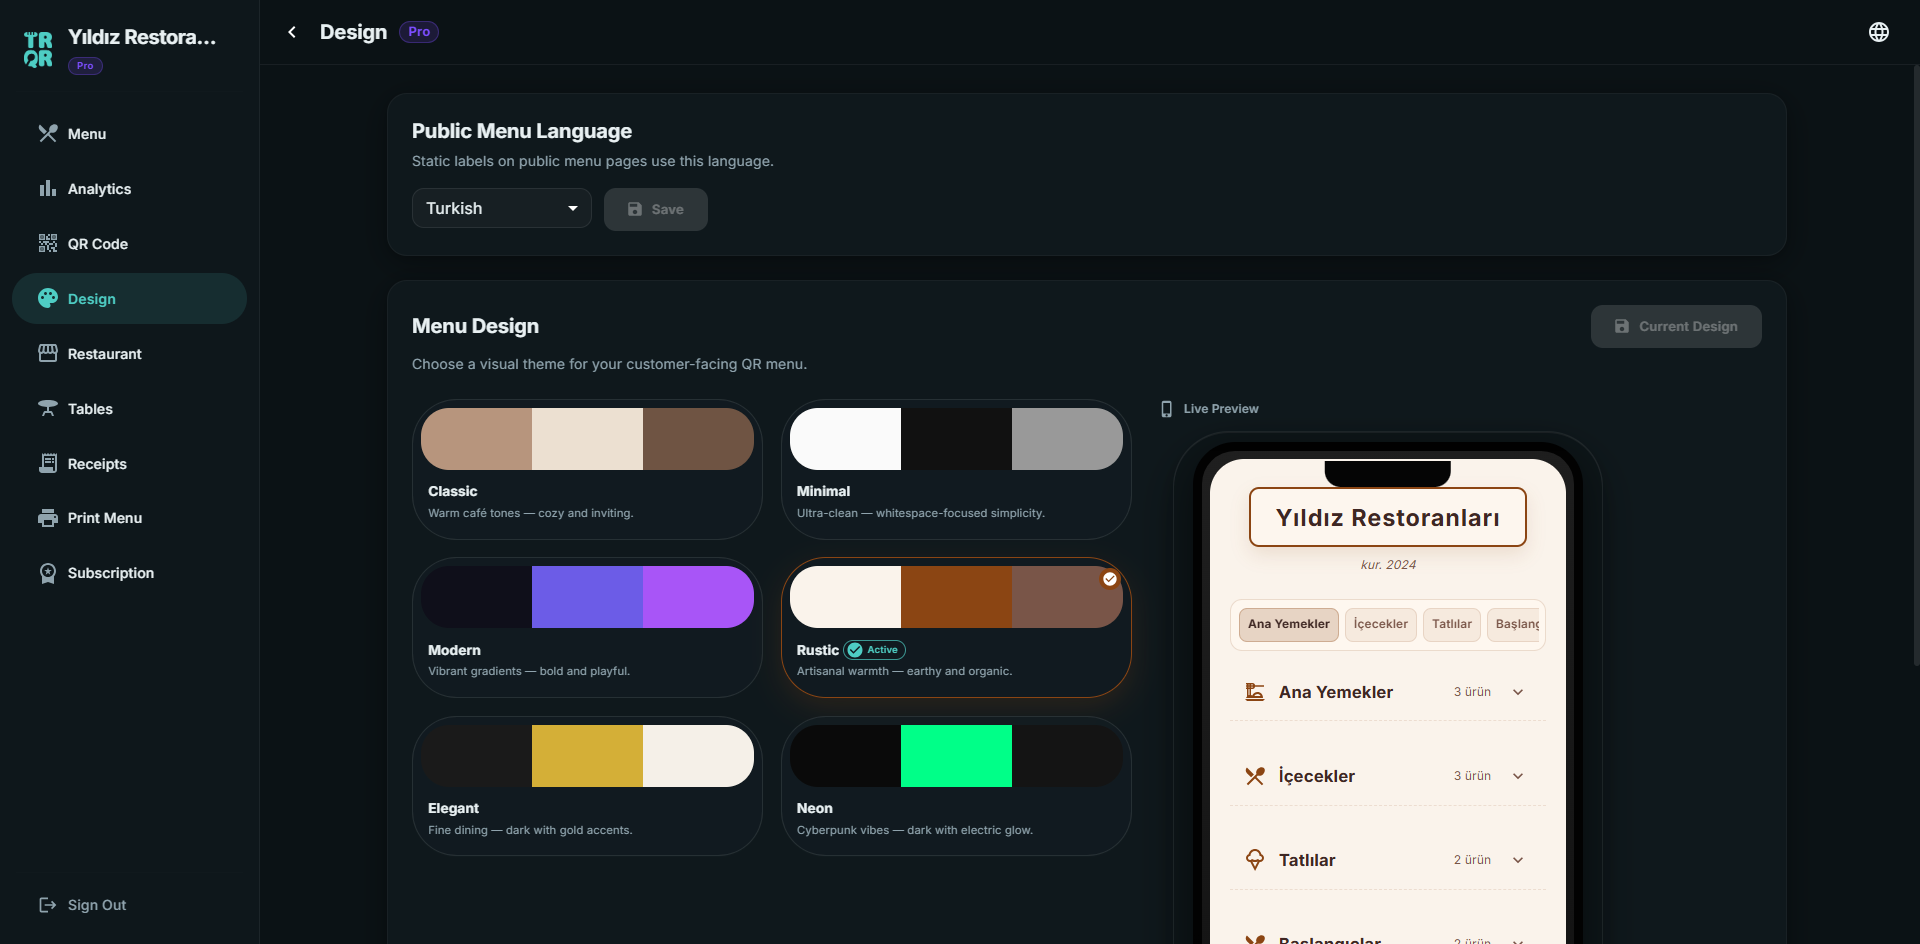
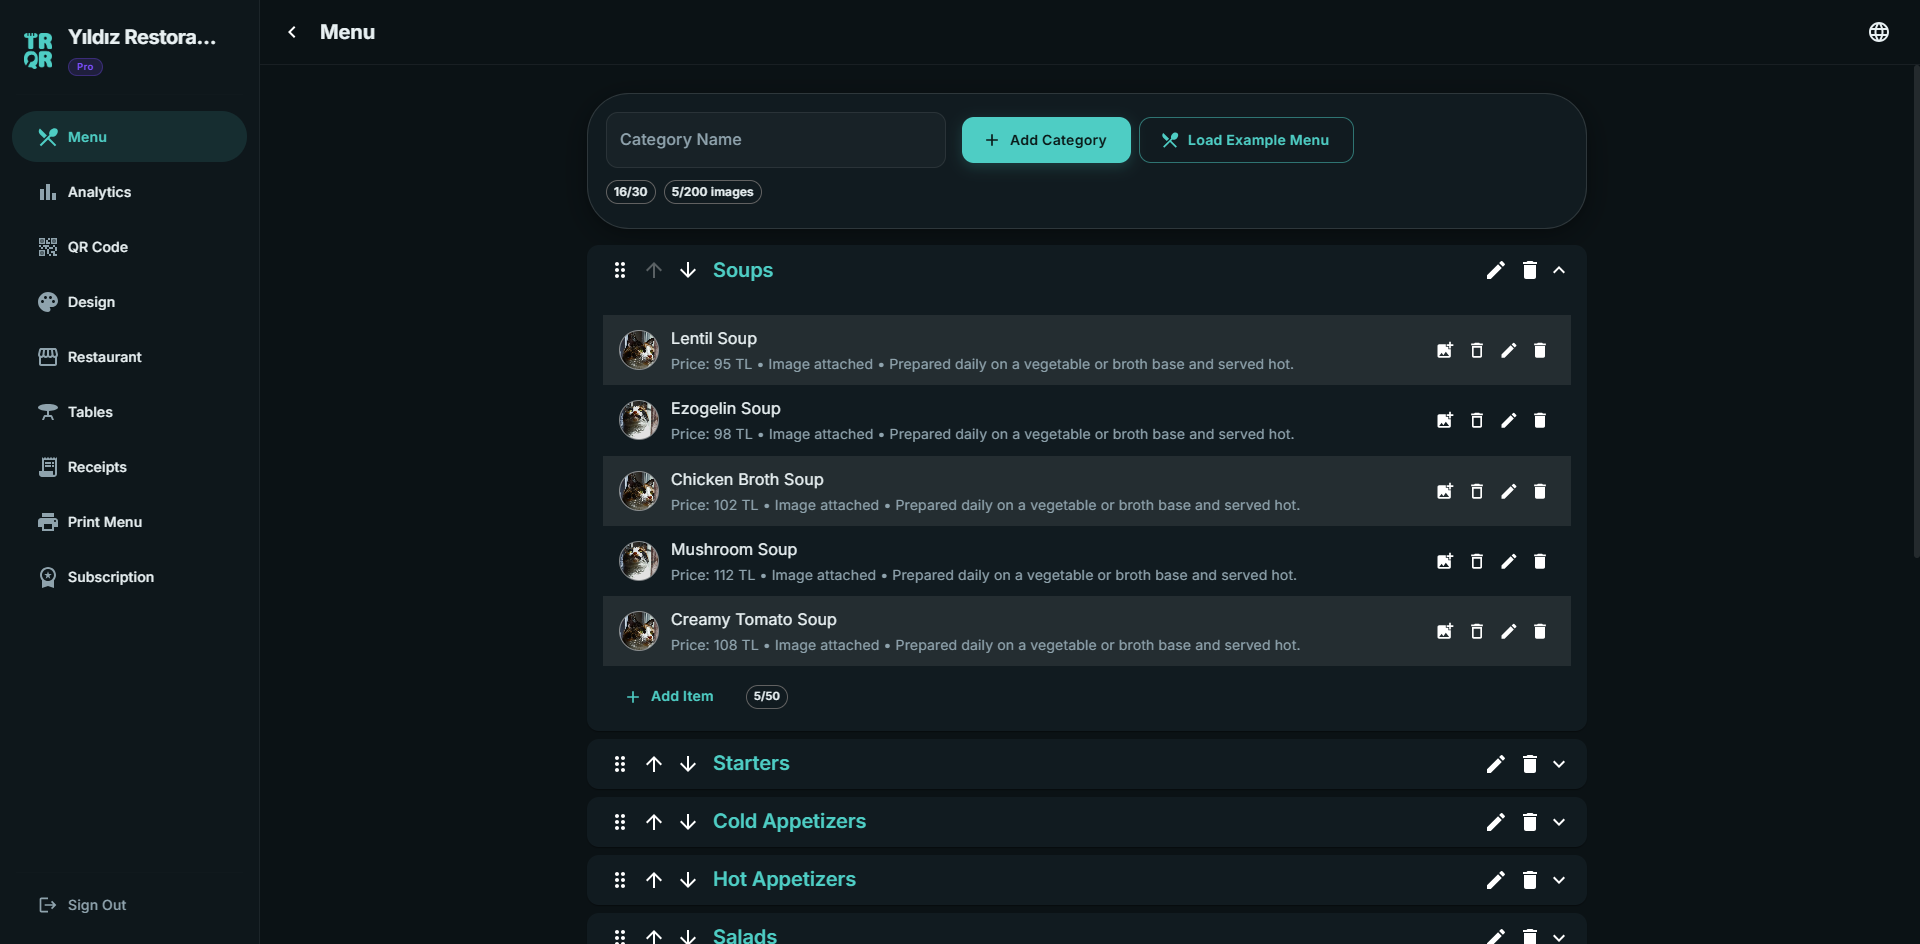
Refactor code structure for improved readability and maintainability

diff --git a/README.md b/README.md
@@ -36,7 +36,7 @@ Built with a strong emphasis on production security, plan-based access control, 
 | Feature | Description |
 |---------|-------------|
 | **Menu Builder** | Drag-and-drop category and item editor. Add names, prices, descriptions, and photos. Toggle item availability instantly. |
-| **Menu Design** | Dedicated template picker with live preview. Six professionally designed templates, each with a matching QR tabletop card design. Template access gated by plan tier. |
+| **Menu Design** | Dedicated Menu Designer page with live preview (separate from Restaurant Settings). Six professionally designed templates, each with a matching QR tabletop card design. Template access gated by plan tier. |
 | **QR Code & Tabletop Designer** | Unique QR code per restaurant with a built-in tabletop card designer. Preview all templates live, customise the card message, and export as PDF in A5, A6, or Square format. |
 | **Print Menu** | Export the full restaurant menu as a print-ready PDF. Choose template and paper size; preview renders live in the browser before export. |
 | **Table Management** | Configure table count, assign custom names (e.g., "Garden", "VIP 1"), track per-table orders, merge tables, and close bills in one tap. |
@@ -76,9 +76,13 @@ Built with a strong emphasis on production security, plan-based access control, 
 |---|---|
 | ![QR Code](assets/screenshots/qr-designer.png) | ![Tables](assets/screenshots/dashboard-tables.png) |
 
-| Print Menu | Restaurant & Menu Design |
+| Print Menu | Restaurant Settings |
 |---|---|
-| ![Print Menu](assets/screenshots/dashboard-print-export.png) | ![Restaurant](assets/screenshots/dashboard-restaurant.png) |
+| ![Print Menu](assets/screenshots/dashboard-print-export.png) | ![Restaurant Settings](assets/screenshots/dashboard-restaurant.png) |
+
+| Menu Designer |
+|---|
+| ![Menu Designer](assets/screenshots/dashboard-menu-designer.png) |
 
 ### Public Menu — 6 Templates
 

diff --git a/docs/features.md b/docs/features.md
@@ -37,6 +37,7 @@ The menu builder is the core of the dashboard experience.
 - **Neon** — Cyberpunk-inspired dark theme with glowing accents
 
 Template access is gated by plan tier. Upgrading immediately unlocks the template for use.
+Template selection is configured on a dedicated Menu Designer page, separate from Restaurant Settings.
 
 **Live demo**
 - A sample menu is always available at `/menu/sample` — no login or restaurant account required
